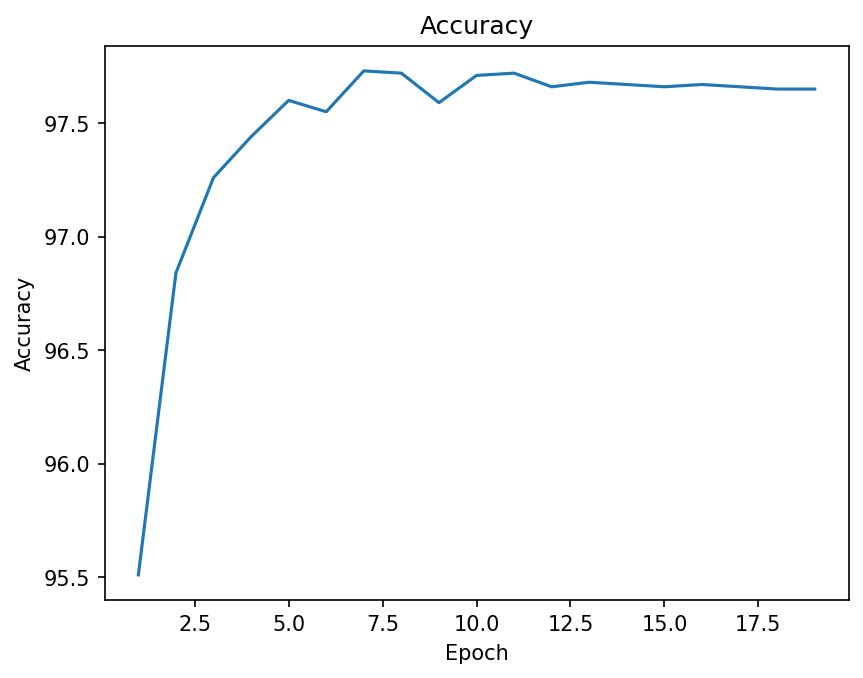
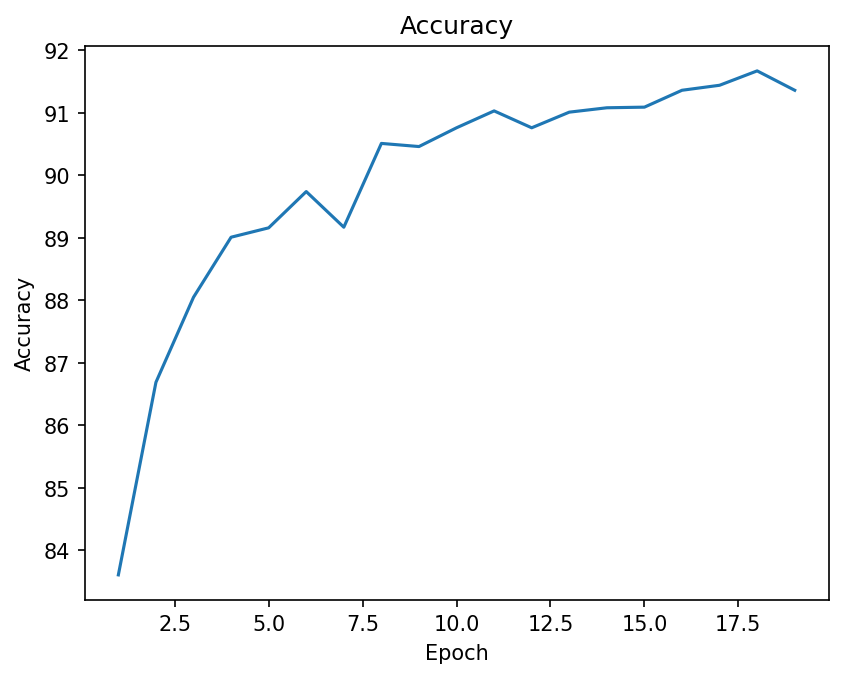
added new datasets

diff --git a/arguments.py b/arguments.py
@@ -10,18 +10,20 @@ def get_args():
     # train params
     parser.add_argument("--seed", type=int, default=defaults["train"]["seed"])
     parser.add_argument("--lr", type=float, default=defaults["train"]["lr"])
+    parser.add_argument("--weight_decay", type=float, default=defaults["train"]["weight_decay"])
     parser.add_argument(
         "--batch_size", type=int, default=defaults["train"]["batch_size"]
     )
     parser.add_argument("--epochs", type=int, default=defaults["train"]["epochs"])
     parser.add_argument("--gamma", type=float, default=defaults["train"]["gamma"])
-    parser.add_argument(
-        "--n_classes", type=int, default=defaults["train"]["n_classes"]
-    )
+    parser.add_argument("--n_classes", type=int, default=defaults["train"]["n_classes"])
     parser.add_argument("--workers", type=int, default=defaults["misc"]["workers"])
     parser.add_argument(
         "--normalize", type=int, choices=[0, 1], default=defaults["train"]["normalize"]
     )
+
+    parser.add_argument("--dataset", type=str, choices=["mnist","fashion","kmnist"], default=defaults["train"]["dataset"])
+
 
     # Model stuff
     parser.add_argument(
@@ -42,7 +44,9 @@ def get_args():
     # Log
     parser.add_argument("--log_interval", type=int, default=defaults["log"]["interval"])
     parser.add_argument("--run_dir", type=str, default=defaults["log"]["run_dir"])
-    parser.add_argument("--verbose", type=int,choices=[0,1], default=defaults["log"]["verbose"])
+    parser.add_argument(
+        "--verbose", type=int, choices=[0, 1], default=defaults["log"]["verbose"]
+    )
 
     # Test params
     parser.add_argument(

diff --git a/Data/build_loaders.py b/Data/build_loaders.py
@@ -1,7 +1,13 @@
 from __future__ import annotations
-from typing import Tuple
 import torch
 from torchvision import datasets, transforms
+from torchvision.datasets import MNIST, FashionMNIST, KMNIST
+
+DATASETS = {
+    "mnist": MNIST,
+    "fashion": FashionMNIST,
+    "kmnist": KMNIST,
+}
 
 
 def build_loaders(
@@ -10,12 +16,14 @@ def build_loaders(
     tst_batch_size: int,
     workers: int,
     device: torch.device,
-    normalize: bool = False,
+    dataset: str = "mnist",
 ):
+    DS = DATASETS[dataset]
+
     tfm = transforms.Compose([transforms.ToTensor()])
 
-    train = datasets.MNIST(data_dir, train=True, download=True, transform=tfm)
-    test = datasets.MNIST(data_dir, train=False, download=True, transform=tfm)
+    train = DS(data_dir, train=True, download=True, transform=tfm)
+    test = DS(data_dir, train=False, download=True, transform=tfm)
 
     pin = device.type == "cuda"
     train_loader = torch.utils.data.DataLoader(

diff --git a/train.py b/train.py
@@ -1,7 +1,6 @@
 from __future__ import annotations
-import os, time
+import time
 import torch
-import torch.nn as nn
 import torch.nn.functional as F
 from torch import optim
 from torch.optim.lr_scheduler import ExponentialLR
@@ -118,7 +117,8 @@ def main():
         tst_batch_size=args.testing_batch_size,
         workers=args.workers,
         device=device,
-        normalize=args.normalize,
+        dataset=args.dataset,
+
     )
 
     model = HyperMLPGeneric(
@@ -132,7 +132,7 @@ def main():
             if p.requires_grad:
                 print(f"{n:40s} {p.numel():8d}")
 
-    optimizer = optim.Adadelta(model.parameters(), lr=args.lr)
+    optimizer = optim.AdamW(model.parameters(), lr=args.lr, weight_decay=args.weight_decay)
     scheduler = ExponentialLR(optimizer=optimizer, gamma=args.gamma)
     train(
         model,

diff --git a/models/hyper_mlp.py b/models/hyper_mlp.py
@@ -87,6 +87,5 @@ class HyperMLPGeneric(nn.Module):
             ).squeeze(1)
             if i < self.L - 1:
                 h = F.relu(h)
-
+                h = F.dropout(h, p=0.2, training=self.training)
         return h
-
